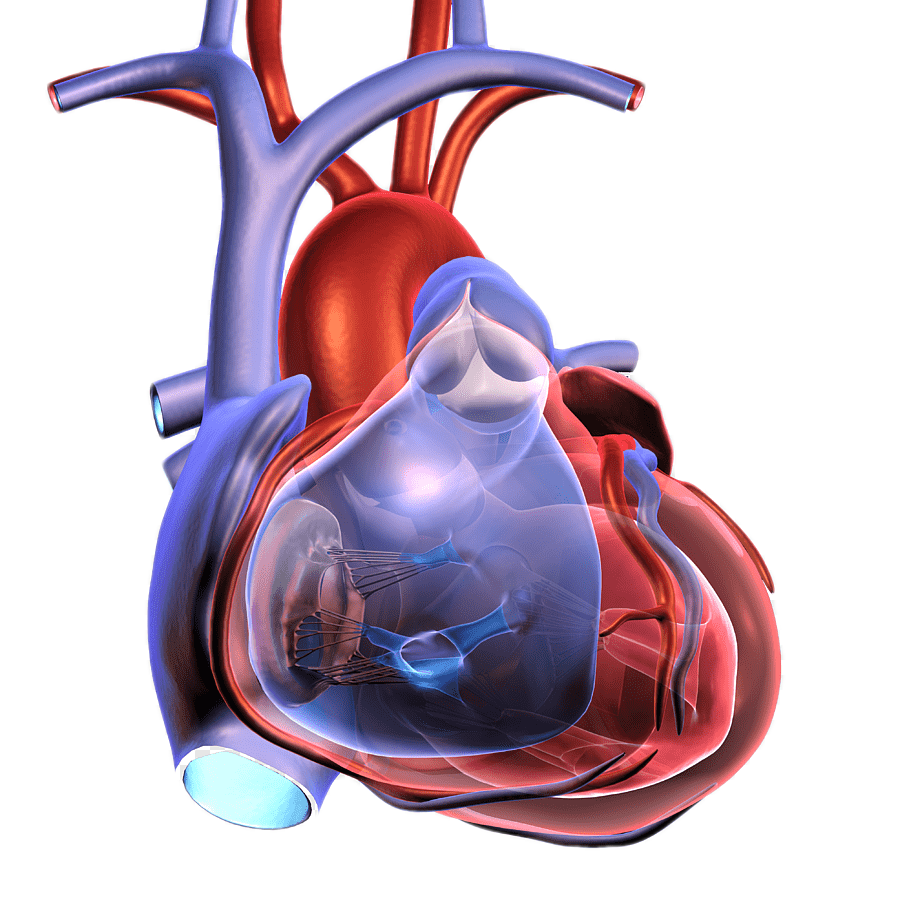
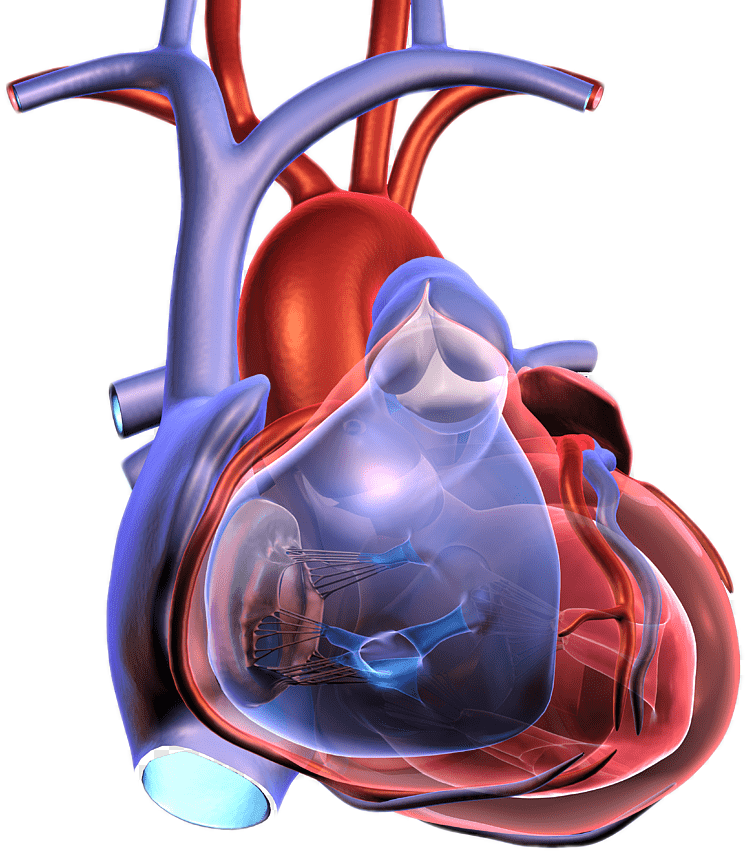
homepage widgets

diff --git a/src/views/Home.vue b/src/views/Home.vue
@@ -10,16 +10,20 @@
       src="../assets/CardianTransparent2.png"
     />
   </div>
+  <div class="container cards_display">
+    <CardsList />
+  </div>
 </template>
 
 <script>
 // @ is an alias to /src
 import HelloWorld from "@/components/HelloWorld.vue";
-
+import CardsList from "@/components/Cards/CardsList.vue";
 export default {
   name: "Home",
   components: {
     HelloWorld,
+    CardsList,
   },
 };
 </script>
@@ -28,28 +32,39 @@ export default {
 .heart {
   position: relative;
   top: -47px;
-  right: -45px;
+  right: 0px;
   float: right;
-  height: 25%;
-  width: 25%;
+  height: 20%;
+  width: 19%;
   transform: scaleX(-1);
 }
 
 .heartsmall {
   position: relative;
   top: -47px;
-  right: -185px;
+  right: -50px;
   float: right;
-  height: 15%;
-  width: 15%;
+  height: 10%;
+  width: 10%;
 }
 
 .cardiomessage {
-  height: 75%;
-  width: 100%;
+  height: 15%;
+  width: 75%;
   display: flex;
   position: fixed;
   align-items: center;
   justify-content: center;
+}
+
+.cards_display {
+  position: absolute;
+
+  bottom: 0px;
+  /* left: 0; 
+  right: 0; 
+  margin-left: auto; 
+  margin-right: auto; 
+  width: 100px; */
 }
 </style>

diff --git a/src/components/HelloWorld.vue b/src/components/HelloWorld.vue
@@ -1,6 +1,14 @@
 <template>
   <div class="hello">
     <h1>Cardiomyopathy Data Sharing Platform</h1>
+    <p>
+      Cardiomyopathy is a disease of the heart muscle that makes it harder for
+      your heart to pump blood to the rest of your body. This platform allows
+      the user to submit and keep track of their own data once they’ve
+      registered to the website. The user can then view useful information
+      relating to cardiomyopathies in varius ways such as graphs and plots for
+      easier consumption and interpretation.
+    </p>
   </div>
 </template>
 
@@ -15,6 +23,9 @@ export default {
 
 <!-- Add "scoped" attribute to limit CSS to this component only -->
 <style scoped>
+.hello {
+  width: 74%;
+}
 h3 {
   margin: 40px 0 0;
 }

diff --git a/src/components/Cards/CardItem.vue b/src/components/Cards/CardItem.vue
@@ -1,0 +1,22 @@
+<template>
+  <div class="col-4">
+    <div class="card">
+      <img
+        class="card-img-top"
+        src="../../assets/image_test.png"
+        alt="Card image cap"
+      />
+      <div class="card-body">
+        <h5 class="card-title">Card title</h5>
+        <p class="card-text">
+          This is a wider card with supporting text below as a natural lead-in
+          to additional content. This content is a little bit longer.
+        </p>
+      </div>
+    </div>
+  </div>
+</template>
+<script>
+export default {};
+</script>
+<style></style>

diff --git a/src/components/Cards/CardsList.vue b/src/components/Cards/CardsList.vue
@@ -1,0 +1,25 @@
+<template>
+  <div class="row">
+    <div class="col">
+      <div class="card-group">
+        <div class="container-fluid">
+          <div class="row">
+            <CardItem />
+            <CardItem />
+            <CardItem />
+          </div>
+        </div>
+      </div>
+    </div>
+  </div>
+</template>
+<script>
+import CardItem from "./CardItem.vue";
+export default {
+  name: "CardsList",
+  components: {
+    CardItem,
+  },
+};
+</script>
+<style></style>
